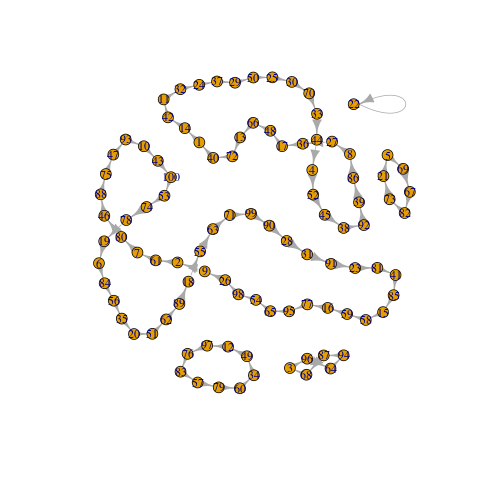
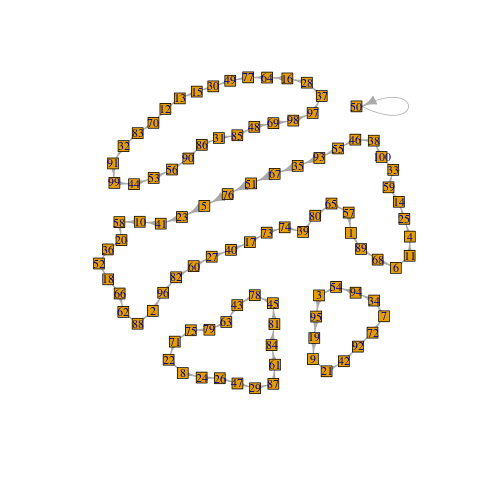
update

Changed region(s): [[0.1875, 0.125, 0.875, 0.8438], [0.7188, 0.1875, 0.8438, 0.25]]

diff --git a/README.md b/README.md
@@ -1,4 +1,5 @@
-# 100-prisoners
+# 100-Prisoners Problem
+
 Simulation of the 100 prisoners problem in R.
 
 The 100 prisoners problem is a mathematical problem in probability
@@ -11,10 +12,12 @@ offers the prisoners a realistic chance of survival. Danish
 computer scientist Peter Bro Miltersen first proposed the problem
 in 2003.
 
-For more details: https://en.wikipedia.org/wiki/100_prisoners_problem
+This R script implements the "follow-the-box" strategy, shows the linked boxes as a graph 
+and computes the probability distribution of the maximum cycle length.
 
+For more details: https://en.wikipedia.org/wiki/100_prisoners_problem
 For the solution, see for example: https://www.youtube.com/watch?v=iSNsgj1OCLA (Veritasium)
 
-![graph](graph.png)
-![histogram](histogram.png)
+
+<img src="graph.png" width="32%"><img src="histogram.png" width="32%"><img src="barplot.png" width="32%">
 
